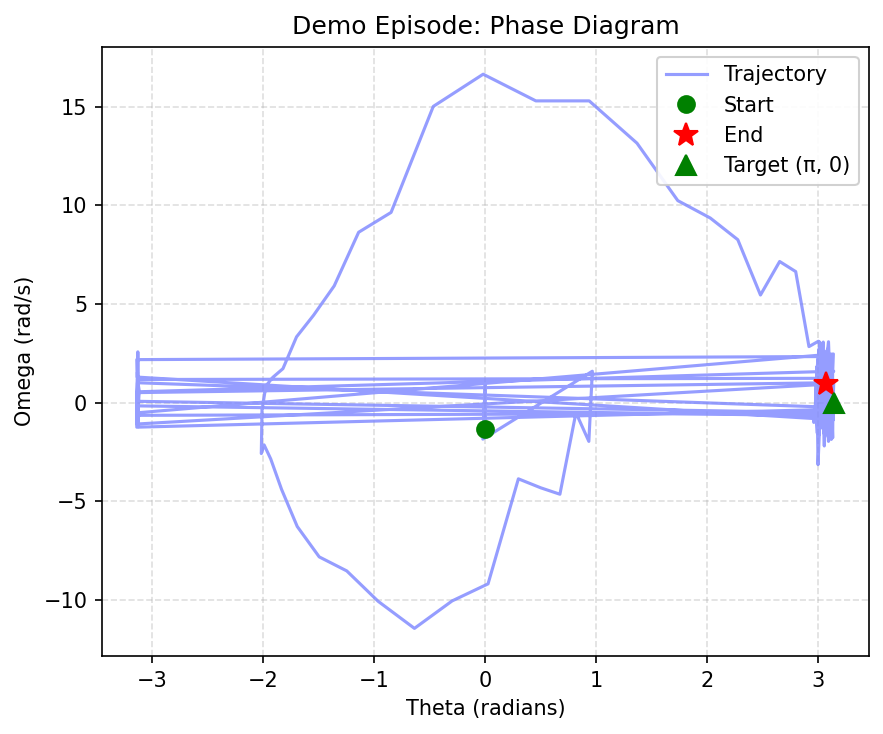
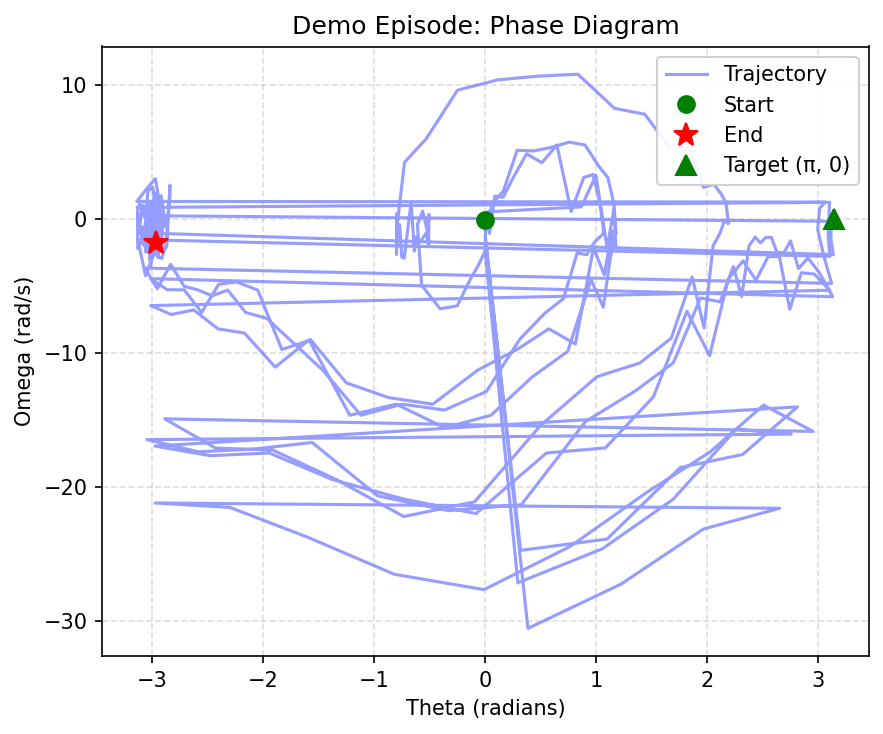
update for ref tracking

diff --git a/src/actor_critic/eval_tracking.py b/src/actor_critic/eval_tracking.py
@@ -1,0 +1,93 @@
+"""
+Standalone tracking evaluation.
+
+Runs the CURRENT trained model (ppo_best.pth) against a *scripted* reference that
+actually moves, so you can see whether the policy tracks. No retraining needed.
+
+Run:  python eval_tracking.py
+"""
+import os, sys
+os.environ["OMP_NUM_THREADS"] = "1"
+
+import numpy as np
+import torch
+import matplotlib.pyplot as plt
+
+sys.path.insert(0, os.getcwd())
+from UnbalancedDisk import UnbalancedDisk_sincos
+from ppo import Actor
+
+DT       = 0.025
+N        = 600        # 15 s
+SETTLE_S = 3.0        # swing up and settle at the top before we start moving the ref
+AMP_DEG  = 15.0
+PERIOD_S = 4.0        # square-wave full period
+
+
+def ref_schedule(t):
+    # hold at the top until settled, then step between +-15 deg every PERIOD_S/2
+    if t < SETTLE_S:
+        return np.pi
+    return np.pi + np.deg2rad(AMP_DEG) * np.sign(np.sin(2 * np.pi * (t - SETTLE_S) / PERIOD_S))
+
+
+def main():
+    env = UnbalancedDisk_sincos(umax=3.0, dt=DT, randomise=False)
+    obs, _ = env.reset()
+    env._random_ref = False                 # WE drive the reference, not the env
+
+    actor = Actor(obs_dim=5, hidden=256)
+    ckpt = torch.load("ppo_best.pth", map_location="cpu")
+    actor.load_state_dict(ckpt["actor"])
+    actor.eval()
+
+    th, ref, omega, volt, errs, t_axis = [], [], [], [], [], []
+
+    with torch.no_grad():
+        for k in range(N):
+            t = k * DT
+            env.th_ref = ref_schedule(t)    # set BEFORE step so this step's obs reflects it
+
+            a = actor(torch.tensor(obs, dtype=torch.float32).unsqueeze(0)).item()
+            obs, r, term, trunc, _ = env.step(a)
+
+            e = ((env.th - env.th_ref + np.pi) % (2 * np.pi)) - np.pi
+            th.append(np.rad2deg(env.th_ref + e))   # true angle, unwrapped to sit near the ref
+            ref.append(np.rad2deg(env.th_ref))
+            omega.append(env.omega)
+            volt.append(float(np.clip(a, -3, 3)))
+            errs.append(np.rad2deg(e))
+            t_axis.append(t)
+
+            if term or trunc:
+                obs, _ = env.reset()
+                env._random_ref = False
+
+    errs = np.array(errs)
+    mask = np.array(t_axis) >= SETTLE_S
+    print(f"Tracking RMSE after settle : {np.sqrt(np.mean(errs[mask] ** 2)):.2f} deg")
+    print(f"Max |tracking error|       : {np.max(np.abs(errs[mask])):.2f} deg")
+    print(f"Max |V|                    : {np.max(np.abs(volt)):.2f} V")
+
+    fig, ax = plt.subplots(3, 1, figsize=(12, 8), sharex=True)
+    ax[0].plot(t_axis, ref, "--", color="#888", lw=1.5, label="theta_ref")
+    ax[0].plot(t_axis, th, color="#4c8cbf", lw=1.5, label="theta actual")
+    ax[0].set_ylabel("Angle [deg]"); ax[0].legend(); ax[0].grid(alpha=0.3)
+    ax[0].set_title("Reference tracking — scripted +-15 deg square wave")
+
+    ax[1].plot(t_axis, errs, color="#c0392b", lw=1.2)
+    ax[1].axhline(0, color="#888", lw=0.8, ls="--")
+    ax[1].set_ylabel("Tracking error [deg]"); ax[1].grid(alpha=0.3)
+
+    ax[2].plot(t_axis, volt, color="#8172b2", lw=1.2)
+    ax[2].axhline(0, color="#888", lw=0.8, ls=":")
+    ax[2].set_ylim(-3.5, 3.5)
+    ax[2].set_ylabel("Voltage [V]"); ax[2].set_xlabel("Time [s]"); ax[2].grid(alpha=0.3)
+
+    plt.tight_layout()
+    plt.savefig("tracking_demo.png", dpi=150, bbox_inches="tight")
+    print("saved tracking_demo.png")
+
+
+if __name__ == "__main__":
+    main()

diff --git a/src/actor_critic/ppo.py b/src/actor_critic/ppo.py
@@ -441,7 +441,7 @@ if __name__ == "__main__":
         ppo_epochs=10,    # Takes 10 training steps per data batch!
         lr_actor=1e-4,
         ent_coef=0.01,    
-        total_steps=1_500_000, 
+        total_steps=2_000_000, 
     )
 
     trainer.train()